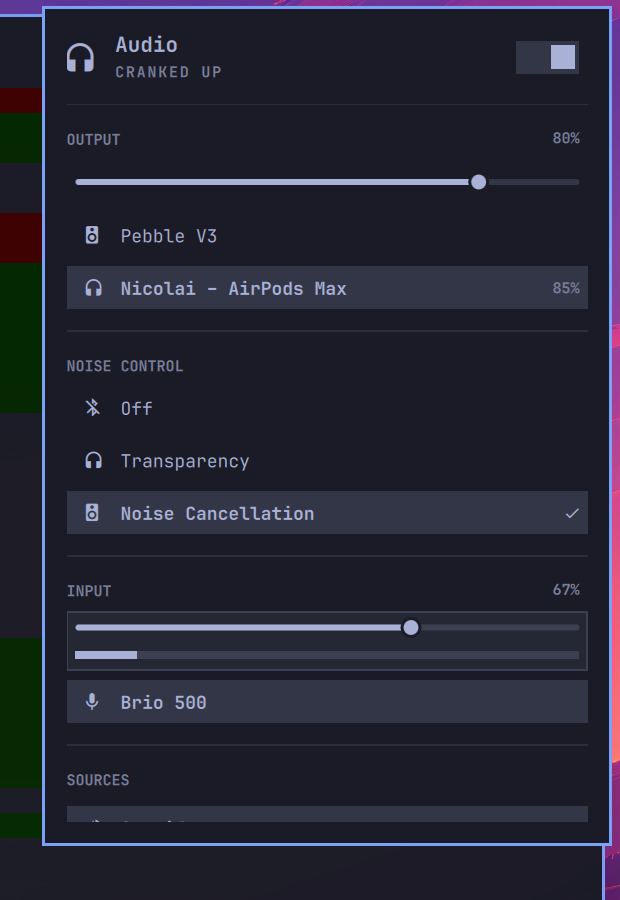
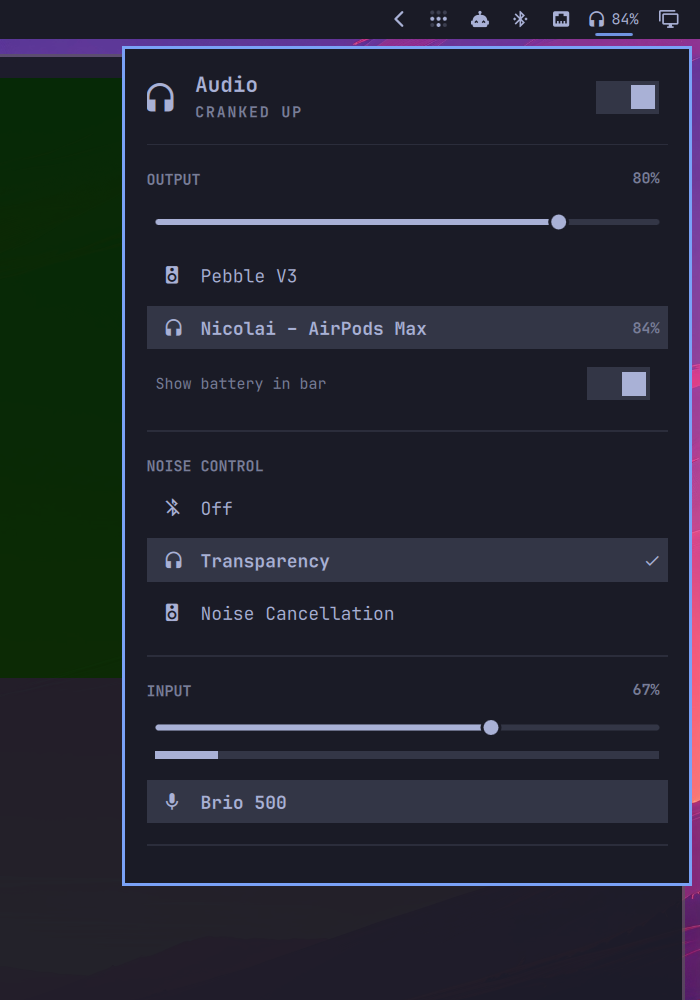
Make the bar reading an in-panel toggle, and give it room
Three fixes to how the battery reading reaches the bar.

It's now opted into from a switch in the panel, under the output list, rather
than only from `omarchy bar set`. The choice is written to shell.json via the
shell's updateEntryInline -- the same call omarchy.clock uses to persist a
clicked format -- so it survives a shell restart and a reboot. Falls back to
pluginRegistry.setBarWidget if that API is ever absent, since a toggle that
works until the next restart and then forgets is worse than one that admits it
can't persist.

The reading no longer crowds the next widget along. BarIconButton has
`fixedWidth: slotSize` and centres its text in a fixed icon square, so appending
a percentage to the glyph overflowed the slot instead of widening it. The
default keeps that button untouched, and showBattery swaps in a WidgetButton
whose fixedWidth tracks its content row -- the arrangement this plugin used
before it became a Sound panel mod, glyph at icon size and reading at label
size.

Default is off, so a fresh install looks exactly like the stock Sound widget.

The bar glyph itself is unchanged: outputIcon() returns the headphones glyph for
any headphone output, which is stock behaviour, not something this mod added.

Claude-Session: https://claude.ai/code/session_01EdDRuTmcatjYWNbVG5fw6X

Changed region(s): [[0.0, 0.0, 1.0, 1.0]]

diff --git a/Panel.qml b/Panel.qml
@@ -44,11 +44,47 @@ Panel {
   // construction.
   onPodsChanged: if (pods) pods.demo = demoMode
 
-  readonly property string podsBarLabel: {
-    if (!showBattery || !podsConnected) return ""
-    var pct = pods ? pods.lowestBattery : -1
-    if (pct < 0) return ""
-    return " " + pct + "%" + (pods && pods.anyCharging ? "" : "")
+  // Whether the bar shows the reading as well as the glyph. BarIconButton draws
+  // into a fixed icon-sized slot, so it can't hold a label -- when this is on the
+  // bar swaps to a button that sizes itself to its contents instead.
+  readonly property bool barShowsBattery: showBattery && podsConnected
+                                          && pods && pods.lowestBattery >= 0
+
+  // Shared by both bar buttons so the click and scroll behaviour can't drift.
+  function barPressed(b) {
+    if (b === Qt.RightButton) toggleAllMuted()
+    else toggle()
+  }
+
+  function barWheel(delta) {
+    if (!hasOutput) return
+    var wheel = Util.wheelSteps(wheelAccumulator, delta)
+    wheelAccumulator = wheel.remainder
+    if (wheel.steps === 0) return
+    showVolumeOsd(setOutputVolume(outputVolume + wheel.steps * 0.05))
+  }
+
+  // Persist an option to shell.json so it survives a shell restart and a reboot.
+  // Applied locally first so the bar changes on the click itself; the write comes
+  // back through the bar as the same value. Mirrors omarchy.clock's cycleFormat.
+  function persistSetting(name, value) {
+    var entry = { id: root.moduleName }
+    for (var key in root.settings) if (key !== "id") entry[key] = root.settings[key]
+    entry[name] = value
+
+    root.settings = entry
+
+    var shell = root.bar ? root.bar.shell : null
+    if (!shell) return
+
+    if (typeof shell.updateEntryInline === "function") {
+      shell.updateEntryInline(root.moduleName, entry)
+    } else if (shell.pluginRegistry && typeof shell.pluginRegistry.setBarWidget === "function") {
+      // Fallback: the same call `omarchy bar set` makes. Without this a missing
+      // updateEntryInline would leave the toggle working until the next restart
+      // and then silently forget, which is worse than not persisting at all.
+      shell.pluginRegistry.setBarWidget(root.moduleName, name, value, {})
+    }
   }
 
   // True when this PipeWire node is the connected AirPods, matched on the MAC
@@ -649,8 +685,9 @@ Panel {
     return Model.streamRepresentsPlayer(node, player, mprisPlayers, displayAudioStreams)
   }
 
-  implicitWidth: button.implicitWidth
-  implicitHeight: button.implicitHeight
+  // AirPods mod: follow whichever bar button is showing.
+  implicitWidth: barShowsBattery ? batteryButton.implicitWidth : button.implicitWidth
+  implicitHeight: barShowsBattery ? batteryButton.implicitHeight : button.implicitHeight
 
   PwObjectTracker { objects: root.candidateSinks }
   PwObjectTracker { objects: root.candidateSources }
@@ -706,31 +743,68 @@ Panel {
     onTriggered: root.refreshDisplayAudioModels()
   }
 
+  // The default bar button, untouched from the stock audio widget: one glyph,
+  // optically centred in the standard icon slot.
   BarIconButton {
     id: button
+    visible: !root.barShowsBattery
     anchors.fill: parent
     bar: root.bar
-    // AirPods mod: podsBarLabel is "" unless showBattery is on and the AirPods
-    // are connected, so the default bar is the stock speaker glyph alone.
-    text: root.outputIcon() + root.podsBarLabel
-    onPressed: function(b) {
-      if (b === Qt.RightButton) root.toggleAllMuted()
-      else root.toggle()
-    }
+    text: root.outputIcon()
+    onPressed: function(b) { root.barPressed(b) }
+    onWheelMoved: function(delta) { root.barWheel(delta) }
+  }
 
-    onWheelMoved: function(delta) {
-      if (!root.hasOutput) return
-      var wheel = Util.wheelSteps(root.wheelAccumulator, delta)
-      root.wheelAccumulator = wheel.remainder
-      if (wheel.steps === 0) return
-      var volume = root.setOutputVolume(root.outputVolume + wheel.steps * 0.05)
-      root.showVolumeOsd(volume)
+  // AirPods mod: glyph plus battery reading, used only when showBattery is on.
+  // fixedWidth tracks the row so the reading gets real space instead of being
+  // squeezed into the icon slot and crowding the next widget along.
+  WidgetButton {
+    id: batteryButton
+    visible: root.barShowsBattery
+    anchors.fill: parent
+    bar: root.bar
+    labelVisible: false
+    hasVisualContent: true
+    horizontalMargin: 6
+    fixedWidth: root.bar && root.bar.vertical
+      ? -1
+      : content.implicitWidth + Style.spaceReal(horizontalMargin) * 2
+    tooltipText: root.pods ? root.pods.deviceName : ""
+    onPressed: function(b) { root.barPressed(b) }
+    onWheelMoved: function(delta) { root.barWheel(delta) }
+
+    Row {
+      id: content
+      anchors.centerIn: parent
+      spacing: Style.space(5)
+
+      // The same glyph the stock button would show for this output.
+      Text {
+        text: root.outputIcon()
+        color: batteryButton.foreground
+        font.family: batteryButton.fontFamily
+        font.pixelSize: Style.bar.iconFont
+        opacity: root.outputMuted ? 0.5 : 1.0
+        anchors.verticalCenter: parent.verticalCenter
+      }
+
+      // Label size rather than icon size, so the glyph still matches every
+      // other bar icon while the percentage reads as text.
+      Text {
+        text: (root.pods ? root.pods.lowestBattery : 0) + "%"
+              + (root.pods && root.pods.anyCharging ? " " : "")
+        color: batteryButton.foreground
+        font.family: batteryButton.fontFamily
+        font.pixelSize: Style.font.caption
+        anchors.verticalCenter: parent.verticalCenter
+      }
     }
   }
 
   KeyboardPanel {
     id: panel
-    anchorItem: button
+    // AirPods mod: anchor to the button that's actually visible.
+    anchorItem: root.barShowsBattery ? batteryButton : button
     owner: root
     bar: root.bar
     open: root.opened
@@ -937,6 +1011,38 @@ Panel {
                 width: panelColumn.width
                 node: modelData
                 rowIndex: index
+              }
+            }
+
+            // AirPods mod: opt in to the bar reading, right under the row that
+            // shows it. Written to shell.json, so it survives a reboot.
+            Item {
+              width: parent.width
+              visible: root.podsConnected
+              implicitHeight: Math.max(barBatteryLabel.implicitHeight,
+                                       barBatterySwitch.implicitHeight)
+
+              Text {
+                id: barBatteryLabel
+                text: "Show battery in bar"
+                color: Qt.darker(root.bar.foreground, 1.4)
+                font.family: root.bar.fontFamily
+                font.pixelSize: Style.font.caption
+                anchors.left: parent.left
+                anchors.leftMargin: Style.space(6)
+                anchors.verticalCenter: parent.verticalCenter
+              }
+
+              // ToggleSwitch doesn't flip itself; `checked` follows the stored
+              // setting, so the switch can only ever show what's persisted.
+              ToggleSwitch {
+                id: barBatterySwitch
+                checked: root.showBattery
+                foreground: root.bar.foreground
+                anchors.right: parent.right
+                anchors.rightMargin: Style.space(6)
+                anchors.verticalCenter: parent.verticalCenter
+                onToggled: root.persistSetting("showBattery", !root.showBattery)
               }
             }
           }

diff --git a/README.md b/README.md
@@ -83,11 +83,17 @@ separator.
 
 ## Options
 
-Set with `omarchy bar set`, stored in `~/.config/omarchy/shell.json`:
+**Show battery in bar** is a switch in the panel itself, under the output list.
+It's off by default, so the bar is the stock icon alone; flip it on and the icon
+gains the reading. The choice is written to `~/.config/omarchy/shell.json`, so it
+survives a shell restart and a reboot.
+
+The reading is the lowest bud, ignoring the case — the case isn't what runs out
+mid-call. A bolt marks charging.
+
+Both options can also be set from the command line:
 
 ```bash
-# Show the battery reading next to the bar icon. Off by default, so the bar
-# looks exactly like the stock Sound widget.
 omarchy bar set community.sound-airpods-mod showBattery true --json
 
 # Point the panel at a synthetic device, for working on it with no headphones
@@ -95,8 +101,13 @@ omarchy bar set community.sound-airpods-mod showBattery true --json
 omarchy bar set community.sound-airpods-mod demo true --json
 ```
 
-`showBattery` reports the lowest bud, ignoring the case — the case isn't what
-runs out mid-call.
+With the battery hidden the bar uses Omarchy's standard `BarIconButton`, which
+draws one optically-centred glyph in a fixed icon slot. Showing the reading
+swaps in a button that sizes itself to its contents instead — text in the fixed
+slot would be squeezed against the neighbouring widget.
+
+The added rows are mouse-driven: they stay out of the panel's keyboard cursor
+model, which is indexed against the audio device lists.
 
 ## How it works
 
